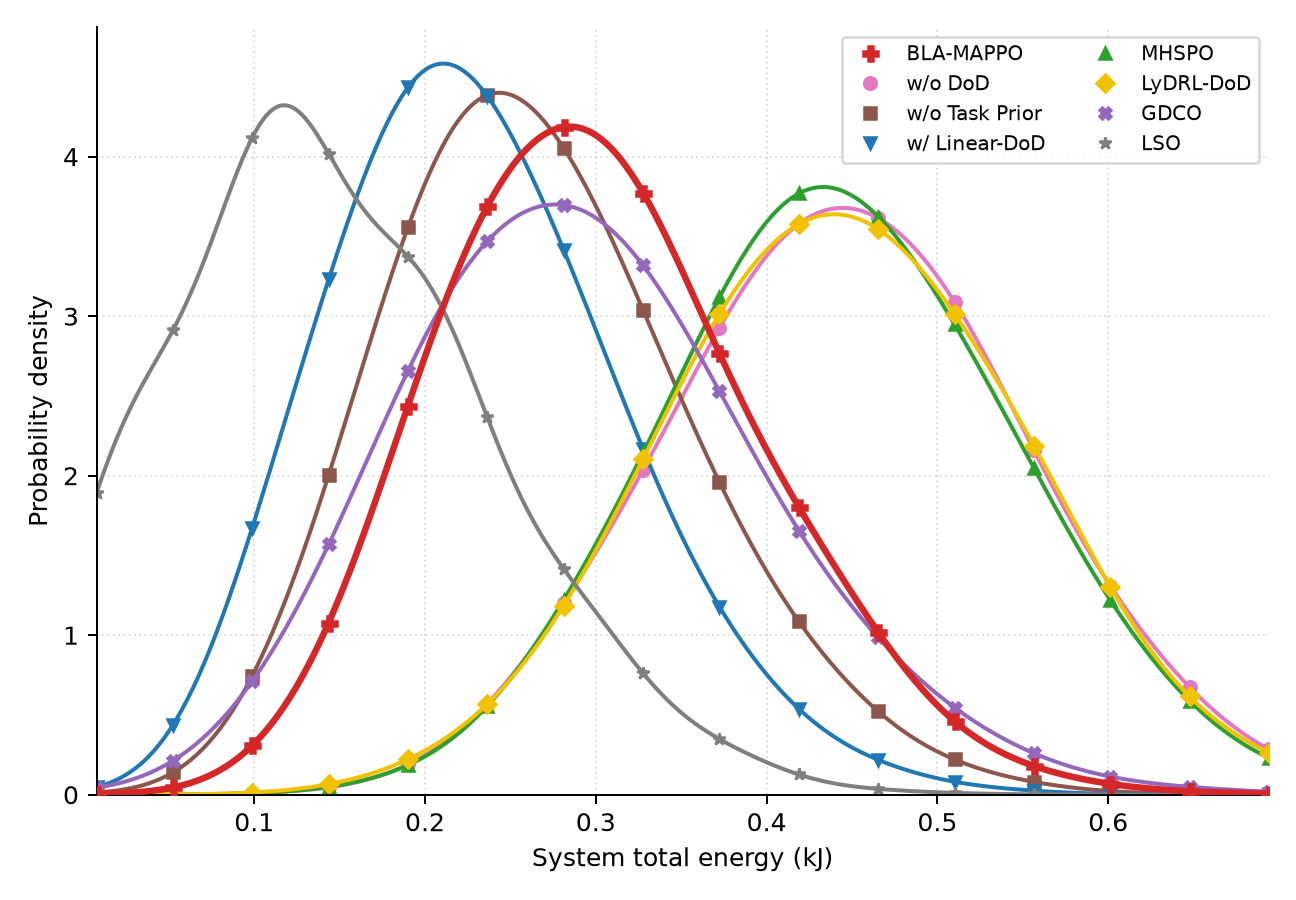
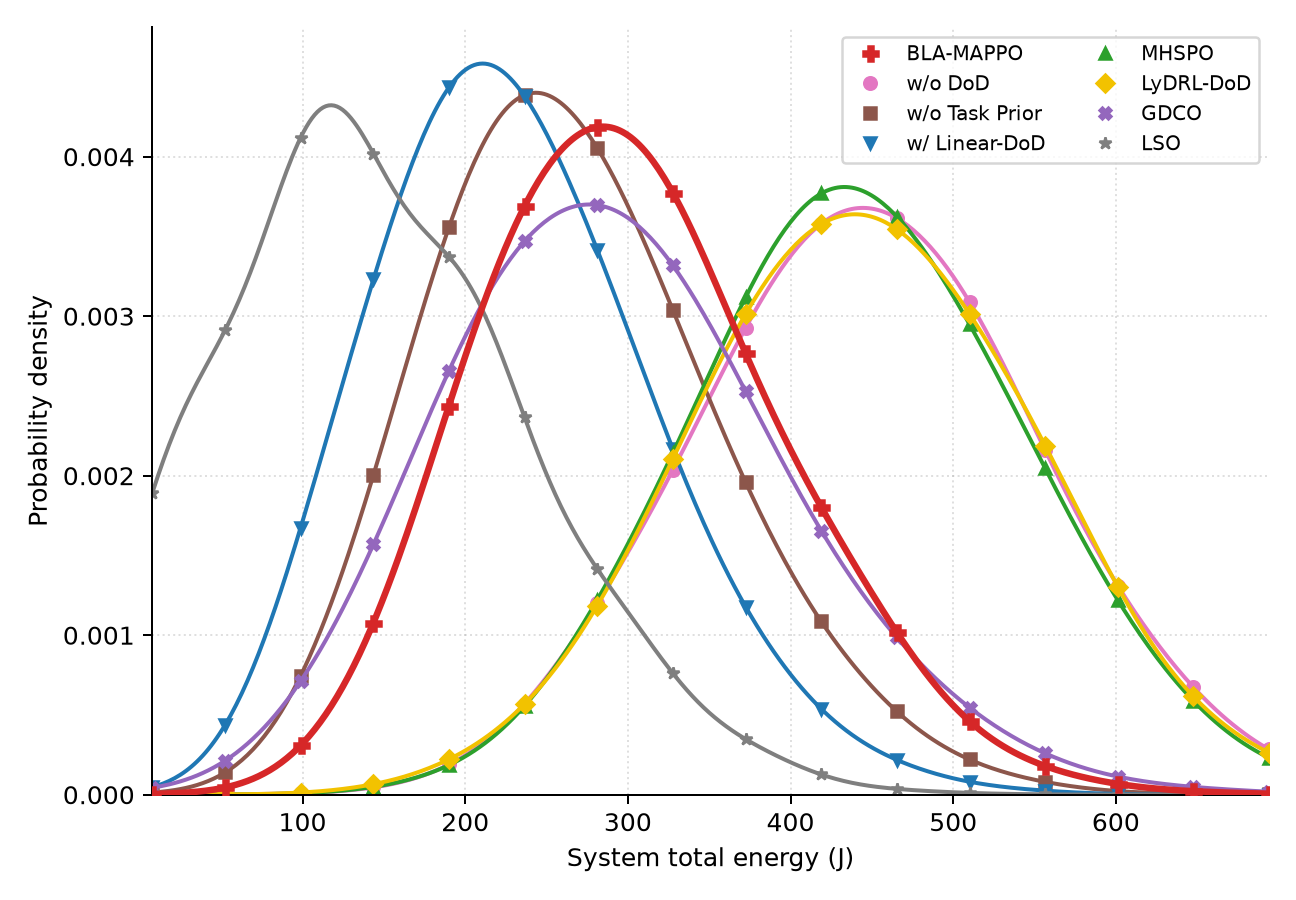
style(fig): system energy axis in joules (J) instead of kJ
Per-slot system energy is only ~150-450 J, so J gives clean 3-digit values
(146-445) instead of 0.146-0.445 kJ. Data unchanged; display unit only.

Claude-Session: https://claude.ai/code/session_01NYVbDmcoxSQy5JvsdQWBr5

diff --git a/satellite_mec/plot_8methods_kde.py b/satellite_mec/plot_8methods_kde.py
@@ -119,7 +119,7 @@ kde_fig({k: np.asarray(data[k]['D']) * RATIO for k in ORDER}, 'System total dela
 # ======================================================================
 # 5. Fig3 系统总能耗(外延量 xRATIO,再 /1e3 J->kJ)
 # ======================================================================
-kde_fig({k: np.asarray(data[k]['E']) * RATIO / 1e3 for k in ORDER}, 'System total energy (kJ)', 'm8_fig3_energy')
+kde_fig({k: np.asarray(data[k]['E']) * RATIO for k in ORDER}, 'System total energy (J)', 'm8_fig3_energy')
 
 # ======================================================================
 # 6. Fig4 累计健康损耗时序(hl 每星平均 x192;斜率=速率,终点=累计量)
